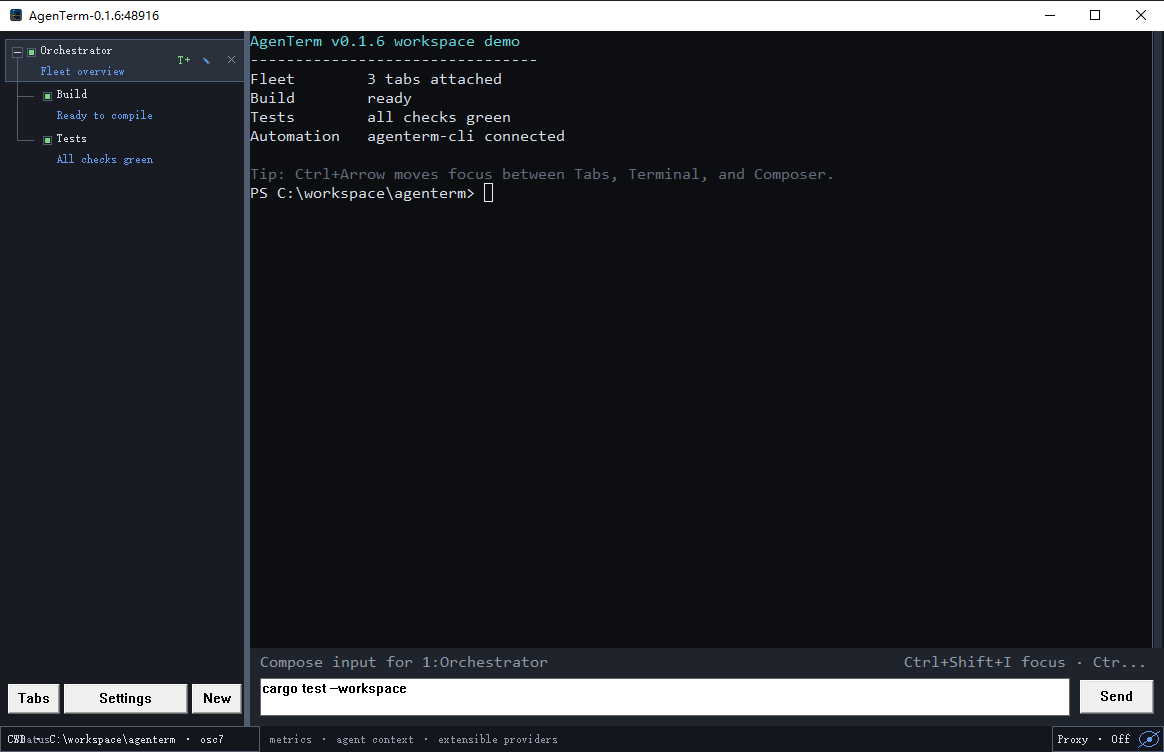
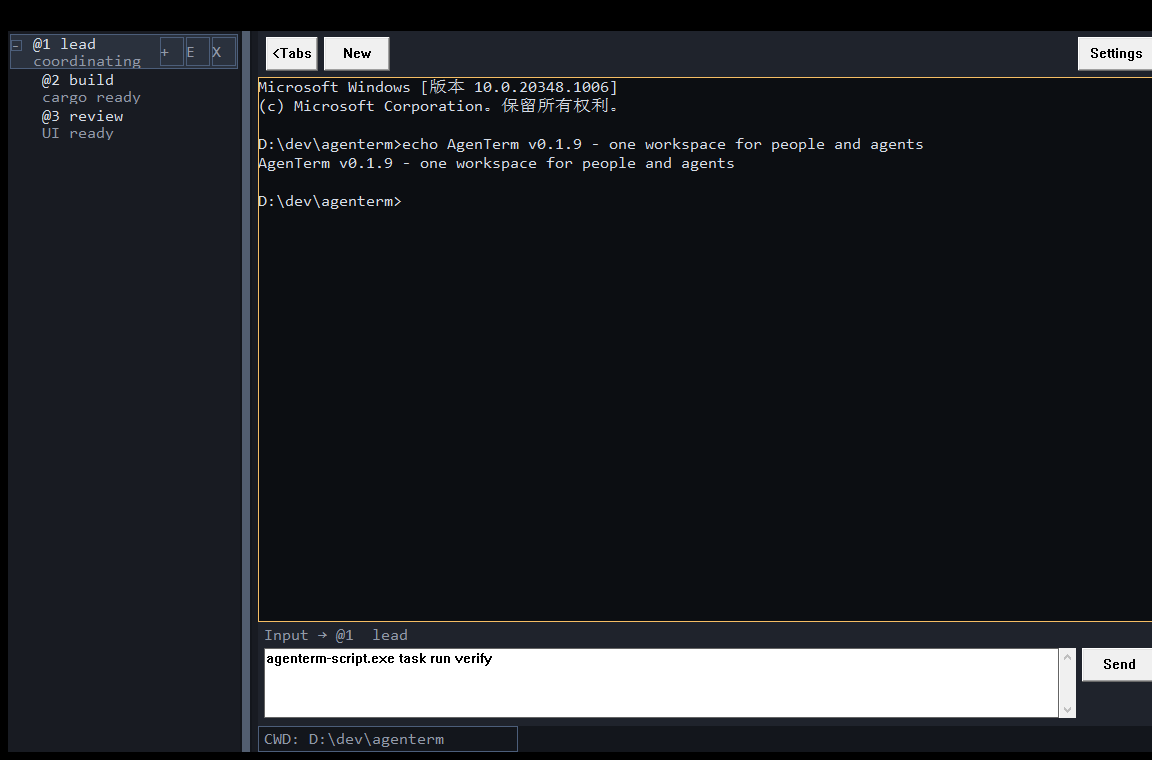
docs(release): refresh v0.1.9 product presentation

Changed region(s): [[0.0, 0.0, 1.0, 1.0]]

diff --git a/docs/index.html b/docs/index.html
@@ -342,11 +342,11 @@
       <div class="wrap">
         <figure>
           <img src="assets/agenterm-workspace.png" width="1164" height="752" loading="eager"
-               alt="AgenTerm window showing a hierarchical team tab tree, a PowerShell terminal, per-tab composer, and bottom workspace status bar">
+               alt="AgenTerm 0.1.9 showing a hierarchical agent tab tree with notes, terminal toolbar, per-tab composer, and terminal status bar">
           <figcaption id="workspace-preview">
-            A real AgenTerm workspace: tree-organized tabs at left, terminal in
-            the center, the selected tab's composer below, and shared status at
-            the bottom.
+            AgenTerm 0.1.9: a compact scrollable team tree at left, terminal
+            toolbar and viewport in the workbench, the selected tab's composer
+            below, and terminal-scoped status at the bottom.
           </figcaption>
         </figure>
       </div>

diff --git a/README.md b/README.md
@@ -9,8 +9,12 @@ native automation client, and a deliberately bounded tmux/RMUX frontend.
 ## Current highlights
 
 - Native Win32/GDI UI with hierarchical team tabs on the left.
-- Compact tree-first sidebar with adjacent `Settings` and `New` actions.
-- Full-width bottom status surface ready for metrics and agent context providers.
+- Compact, scrollable tree-first sidebar with two-line names/notes and a
+  draggable width boundary.
+- Terminal toolbar keeps `<Tabs`/`>Tabs` and `New` at the left while anchoring
+  `Settings` at the right.
+- Terminal-scoped bottom status surface is ready for metrics and agent context
+  providers without consuming the full-height Tabs column.
 - Branded Windows icon and a persistent terminal font/size settings panel.
 - `cmd.exe` is the default shell.
 - Two-line tabs separate program/terminal TITLE from a user-maintained note.
@@ -19,6 +23,8 @@ native automation client, and a deliberately bounded tmux/RMUX frontend.
   active tab; PTY commands restart as new processes.
 - Exited processes leave a `[dead]` tab until the user explicitly closes it.
 - Every tab owns a composer text box and Send button.
+- `New` opens a configuration surface for shell profile, initial command, and
+  optional ephemeral HTTP(S) proxy environment before creating a terminal.
 - Local CLI can create, select, rename, inspect, capture, and drive tabs.
 - Mouse-wheel history, a draggable scrollbar, and highlighted terminal text
   selection share the same viewport; selected text copies to the Windows

diff --git a/plan/plan-v0.1.10.md b/plan/plan-v0.1.10.md
@@ -1,6 +1,6 @@
 # AgenTerm v0.1.10 公开计划
 
-状态：范围已冻结，等待 v0.1.9 收口后实施
+状态：范围已冻结；v0.1.9 发布完成并验证 Release 产物后立即实施
 工作主题：**Rhai 完整接替 PowerShell，并建立可验证的只读 Agent 桥梁**
 版本定位：在 v0.1.9 完善通用 Rhai 运行时、模块任务与机器可读工具
 schema 后，让 AgenTerm 首次用自己的脚本运行时驱动完整开发生命周期，
@@ -19,9 +19,10 @@ schema 后，让 AgenTerm 首次用自己的脚本运行时驱动完整开发生
 v0.1.10 必须完成 Rhai 对仓库自有 PowerShell 自动化的替代，这不是尽力而为
 的候选项，也不能顺延为后续版本：
 
-- 截至 2026-07-29 的滚动快照为 **44 个受 Git 跟踪的 `.ps1`**：根目录
-  3 个、`scripts/` 活跃脚本 17 个、`scripts/archive/powershell/` 2 个、
-  `tests/` 22 个；这只是便于评审的当前快照，v0.1.10 开工时必须由
+- 截至 2026-07-29 的发布前滚动快照为 **43 个受 Git 跟踪的 `.ps1`**：
+  根目录 3 个、`scripts/` 活跃脚本 17 个、
+  `scripts/archive/powershell/` 2 个、`tests/` 21 个；这只是便于评审的
+  当前快照，v0.1.10 开工时必须由
   `git ls-files '*.ps1'` 自动生成并冻结真实基线，v0.1.9 收口期间新增并
   最终纳入 Git 的脚本同样必须迁移；
 - v0.1.10 开工提交冻结最终迁移清单；从该提交起，zero-PS1 漂移门既拒绝
